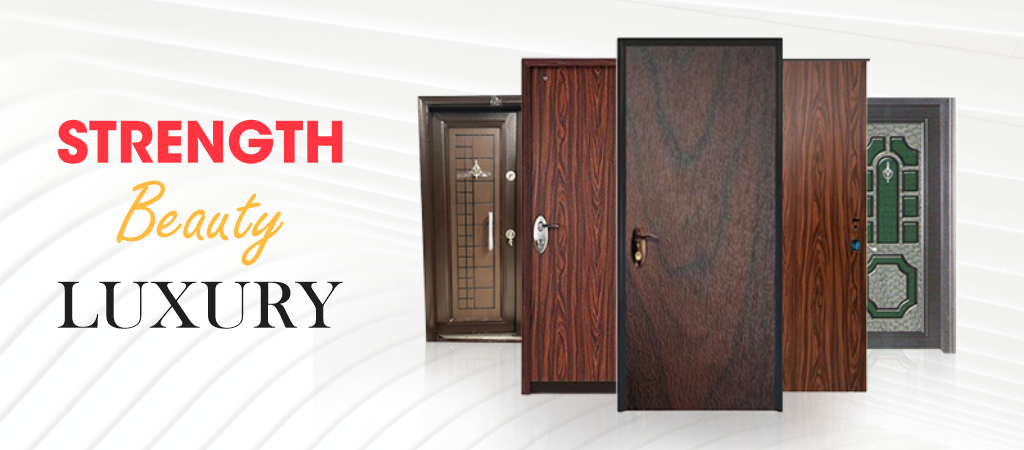
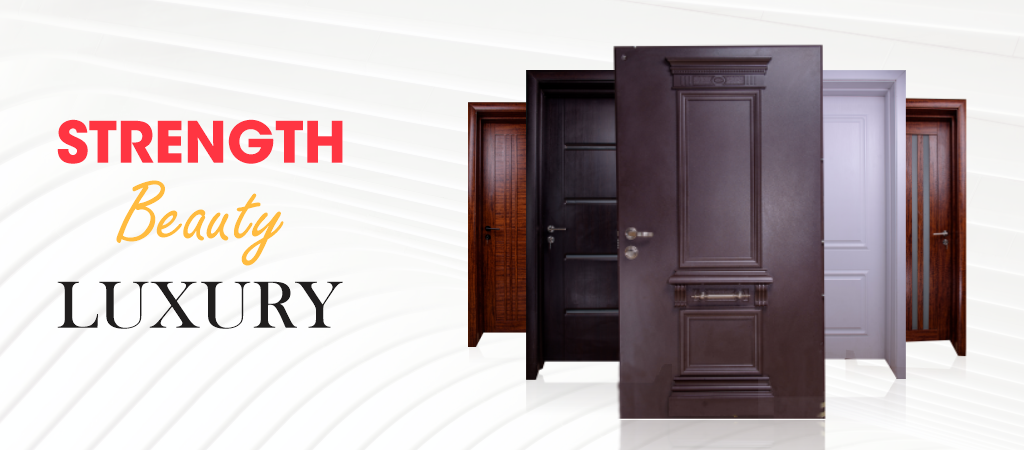
Changed Carousel Image again

diff --git a/front-page.php b/front-page.php
@@ -55,7 +55,7 @@ get_header();
                 </div>
                 </div>
                 <div class="carousel-item">
-                <img src="<?php echo get_template_directory_uri().'/images/carousel-1.png' ?>" class="d-block w-100" alt="...">
+                <img src="<?php echo get_template_directory_uri().'/images/DRRRS4.png' ?>" class="d-block w-100" alt="...">
                 <div class="carousel-caption d-none d-md-block">
                     
                 </div>
